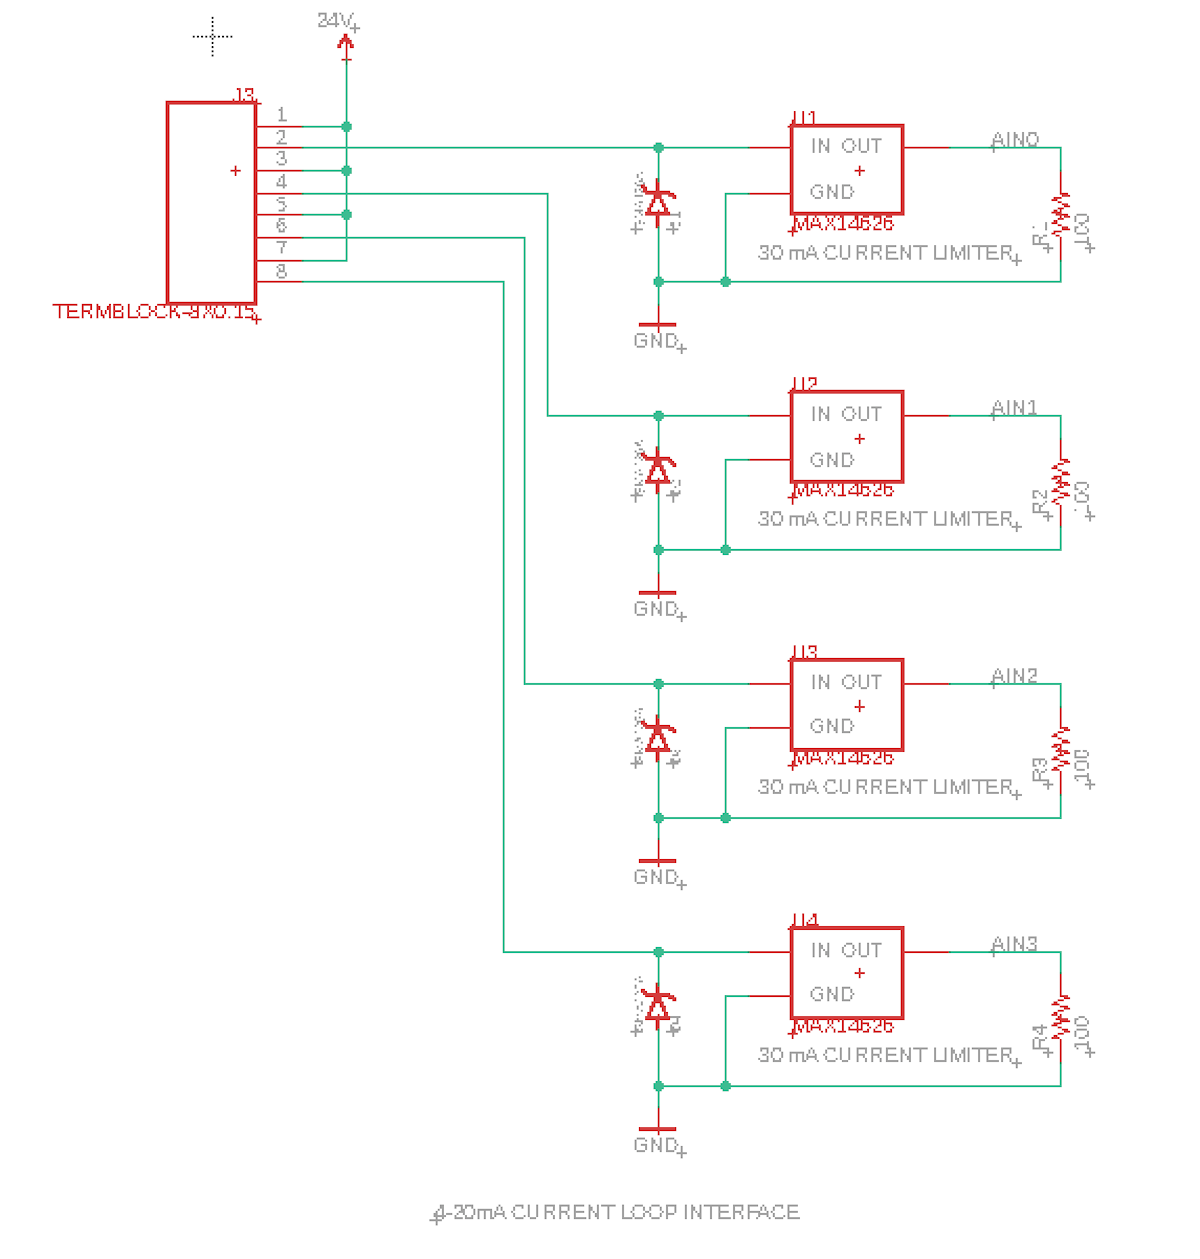
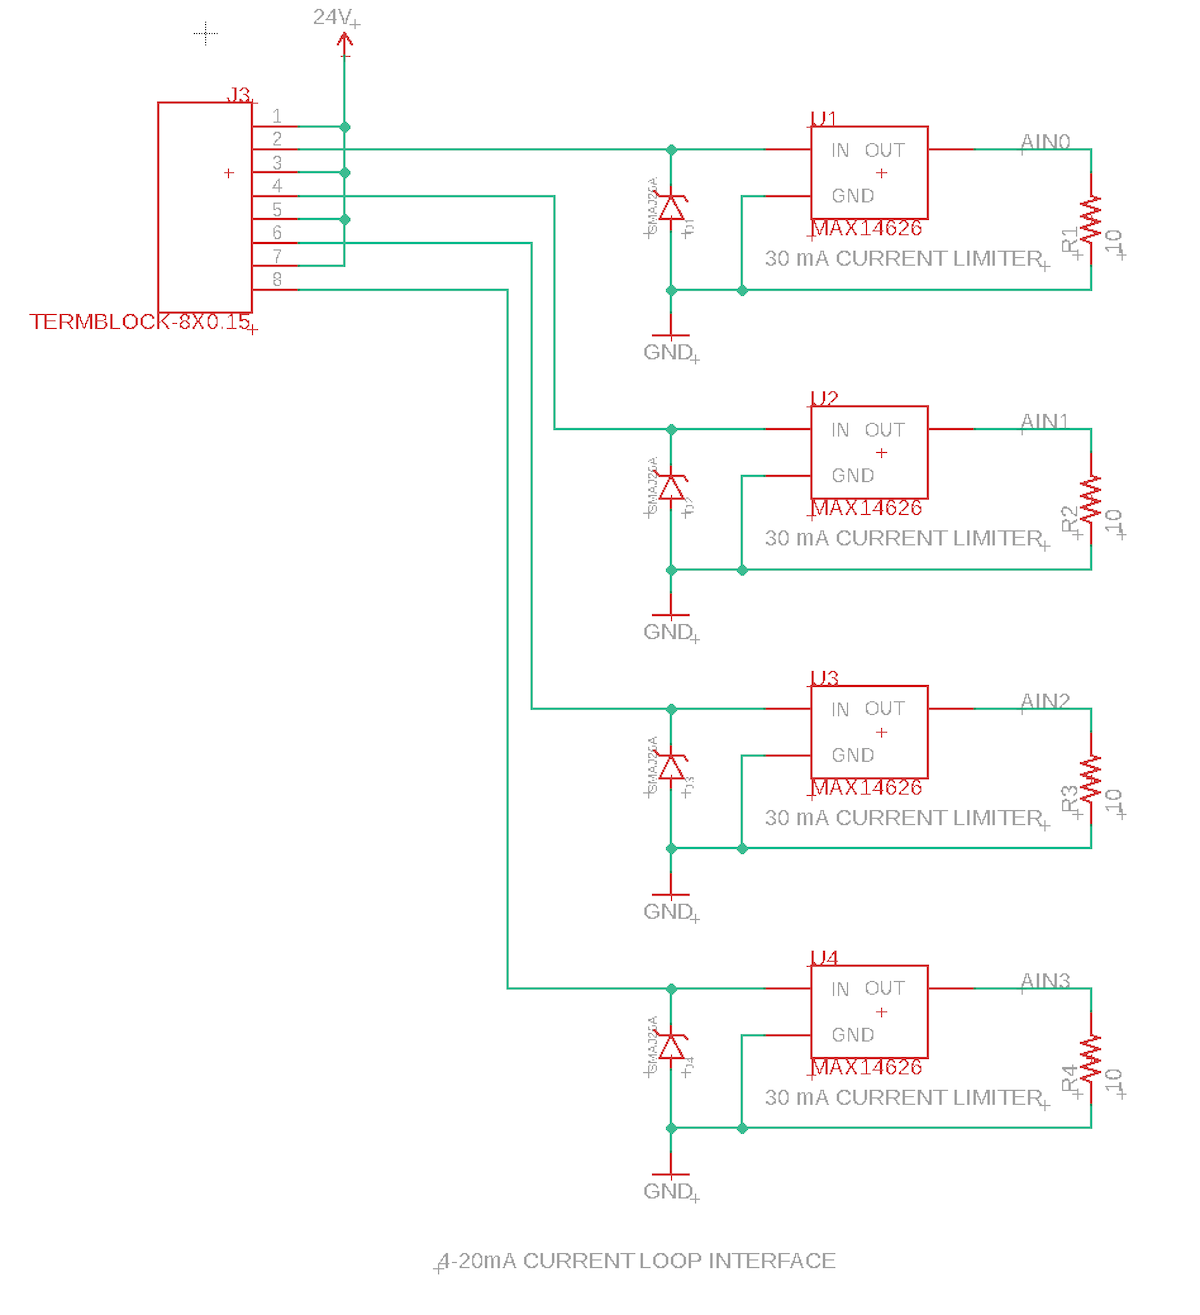
AN021
- Change value of sense resistor to 10 ohms

Changed region(s): [[0.0308, 0.0, 0.925, 0.7434], [0.4317, 0.7125, 0.9558, 0.9913], [0.37, 0.9293, 0.5242, 0.9913]]

diff --git a/AN021-Tracker-4-20mA-Quad/firmware/main.cpp b/AN021-Tracker-4-20mA-Quad/firmware/main.cpp
@@ -33,8 +33,8 @@ void locationGenerationCallback(JSONWriter &writer, LocationPoint &point, const 
 void setup()
 {
     // Uncomment to make it easier to see the serial logs at startup
-    waitFor(Serial.isConnected, 15000);
-    delay(1000);
+    // waitFor(Serial.isConnected, 15000);
+    // delay(1000);
 
     Tracker::instance().init();
 
@@ -49,7 +49,7 @@ void setup()
     Wire3.begin();
 
     sensor
-        .withADS1015(100, ADS1015_ADDRESS_GND, Wire3)
+        .withADS1015(100, ADS1015_CONFIG_PGA_16, 318, 1602, ADS1015_ADDRESS_GND, Wire3)
         .withConfig(sensorConfig, NUM_SENSOR_CONFIG)
         .init();
 

diff --git a/AN021-Tracker-4-20mA-Quad/README.md b/AN021-Tracker-4-20mA-Quad/README.md
@@ -56,7 +56,19 @@ The ADC is a ADC1015, a quad I2C ADC. In order to support 4 channels it's used i
 
 The sensing circuit is identical to the single, but there are 4 of them.
 
-The sense resistor is connected low-side, to ground, so it can be measured with a single-ended ADC. A 100 ohm resistor is used so the maximum current of 30 mA will have a voltage of 3.0V across the sense resistor, within the capabilities of the ADC.
+The sense resistor is connected low-side, to ground, so it can be measured with a single-ended ADC. 
+
+This design uses a 10 ohm sense resistor, since the ADS1015 has programmable gain control. The ADS 1015 is run in PGA16 mode (+/- 0.256V). 
+
+| Current | ADC Value | Description   |
+| ------: | --------: | :------------ |
+| 0 mA    | 0         | Open Circuit  |
+| 4 mA    | 318       | Minimum Value |
+| 20 mA   | 1602      | Maximum Value |
+| 30 mA   | 2048      | Short circuit |
+
+
+Originally, I used a 100 ohm resistor is used so the maximum current of 30 mA will have a voltage of 3.0V across the sense resistor, within the capabilities of the ADC but using 10 ohm uses more of the usable range of the ADC. For the 100 ohm sense resistor, the ADS 1015 is run in PGA1 mode (+/-4.096V). This means 3.3V is approximately 1652.
 
 | Current | Voltage | ADC Value | Description   |
 | ------: | ------: | --------: | :------------ |
@@ -65,7 +77,6 @@ The sense resistor is connected low-side, to ground, so it can be measured with 
 | 20 mA   |  2.0 V  | 1004      | Maximum Value |
 | 30 mA   |  3.0 V  | 1506      | Short circuit |
 
-The ADS 1015 is run in PGA1 mode (+/-4.096V). This means 3.3V is approximately 1652.
 
 ### Board Layout - Quad
 
@@ -82,7 +93,7 @@ The ADS 1015 is run in PGA1 mode (+/-4.096V). This means 3.3V is approximately 1
 | 1 | D6 | DIODE SCHOTTKY 40V 1A POWERMITE | [ON Semiconductor MBRM140T3G](https://www.digikey.com/product-detail/en/on-semiconductor/MBRM140T3G/MBRM140T3GOSCT-ND/917997) | $0.36 |
 | 1 | J4 | TERM BLK 2POS SIDE ENT 3.5MM | [On Shore OSTTE020161M](https://www.digikey.com/products/en?keywords=ED2635-ND) | $0.67 | 
 | 1 | L1 | FIXED IND 10UH 1A 276 MOHM SMD | [Bourns SRN3015-100M](https://www.digikey.com/product-detail/en/bourns-inc/SRN3015-100M/SRN3015-100MCT-ND/2756149) | $0.46 |
-| 4 | R1 - R4 | RES SMD 100 OHM 5% 1/10W 0603 | [Panasonic ERJ-3GEYJ101V](https://www.digikey.com/product-detail/en/panasonic-electronic-components/ERJ-3GEYJ101V/P100GCT-ND/134714) | |
+| 4 | R1 - R4 | RES SMD 10 OHM 1% 1/10W 0603 | [Panasonic ERJ-3EKF10R0V](https://www.digikey.com/product-detail/en/panasonic-electronic-components/ERJ-3EKF10R0V/P10-0HCT-ND/198100) | |
 | 3 | R5, R6, R7 | RES SMD 10K OHM 5% 1/4W 0603 | [Panasonic ERJ-PA3J103V](https://www.digikey.com/product-detail/en/panasonic-electronic-components/ERJ-PA3J103V/P10KBZCT-ND/5036237) | | 
 | 1 | R9 | RES SMD 18.2K OHM 0.1% 1/5W 0603 | [Panasonic ERJ-PB3B1822V](https://www.digikey.com/product-detail/en/panasonic-electronic-components/ERJ-PB3B1822V/P20114CT-ND/6214369) | $0.25 | 
 | 1 | R10 | RES SMD 1K OHM 0.5% 1/5W 0603 | [Panasonic ERJ-PB3D1001V](https://www.digikey.com/product-detail/en/panasonic-electronic-components/ERJ-PB3D1001V/P20283CT-ND/6214538) |  | 
@@ -143,7 +154,7 @@ From the command palette in Workbench, **Particle: Install Library** then enter 
 If you prefer to edit project.properties directly, add these:
 
 ```
-dependencies.Sensor_4_20mA_RK=0.0.1
+dependencies.Sensor_4_20mA_RK=0.0.2
 dependencies.SparkFun_ADS1015_Arduino_Library=2.3.0
 ```
 
@@ -201,7 +212,7 @@ void setup()
     Wire3.begin();
 
     sensor
-        .withADS1015(100, ADS1015_ADDRESS_GND, Wire3)
+        .withADS1015(100, ADS1015_CONFIG_PGA_16, 318, 1602, ADS1015_ADDRESS_GND, Wire3)
         .withConfig(sensorConfig, NUM_SENSOR_CONFIG)
         .init();
 
@@ -264,12 +275,26 @@ More information about the configuration object can be found in the [4-20mA libr
 
 ```cpp
 sensor
-    .withADS1015(100, ADS1015_ADDRESS_GND, Wire3)
+    .withADS1015(100, ADS1015_CONFIG_PGA_16, 318, 1602, ADS1015_ADDRESS_GND, Wire3)
     .withConfig(sensorConfig, NUM_SENSOR_CONFIG)
     .init();
 ```
 
-This is the initialization of the 4-20mA sensor library. It's set to use an ADS1015. The first parameter is the virtual sensor pin number from the `SensorConfig` object, 100. The second parameter is the I2C address (0x48). The last parameter is the I2C interface that it's connected to. In this case, `Wire3`, the multi-function pins on the M8 connector.
+The parameters to `withADS1015()` are:
+
+- Since the ADC1015 ADCs don't have pin numbers (in the analogRead() sense), we assign them virtual pin numbers, which typically start at 100. They don't need to be contiguous. Each ADS1015 has 4 ADCs, so it always uses 4 virtual pins, even if you don't use all 4 ADCs. An 8-channel ADC would use 8. The value 100 is the virtual pin number to start with for that ADC. This must match the config structure, above.
+
+- `ADS1015_CONFIG_PGA_16` is the gain setting for the ADC for a 10 ohm sense resistor. 
+
+- 318 is the ADC value for 4 mA (`adcValue4mA`) when using a 10 ohm sense resistor. See table below.
+
+- 1602 is the ADC value for 20 mA (`adcValue20mA`).
+
+| Parameter | 10 ohm | 100 ohm |
+| :--- | :--- | :--- |
+| `gain` | `ADS1015_CONFIG_PGA_16` | `ADS1015_CONFIG_PGA_1` |
+| `adcValue4mA` | 318 | 199 |
+| `adcValue20mA` | 1602 | 1004 |
 
 
 ```cpp
@@ -280,3 +305,9 @@ void locationGenerationCallback(JSONWriter &writer, LocationPoint &point, const 
 ```
 
 This adds the keys defined in the `SensorConfig` to the location publishes.
+
+## Revision History
+
+### 0.0.2 (2020-08-11)
+
+- Changed the sense resistor from 100 ohm to 10 ohm, since the ADS1015 has built-in gain control
